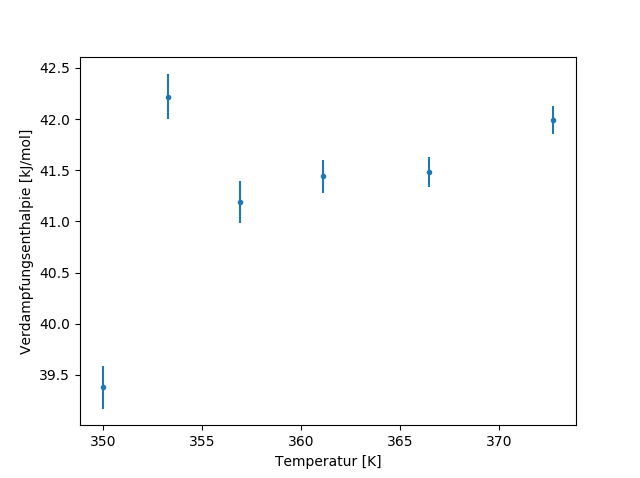
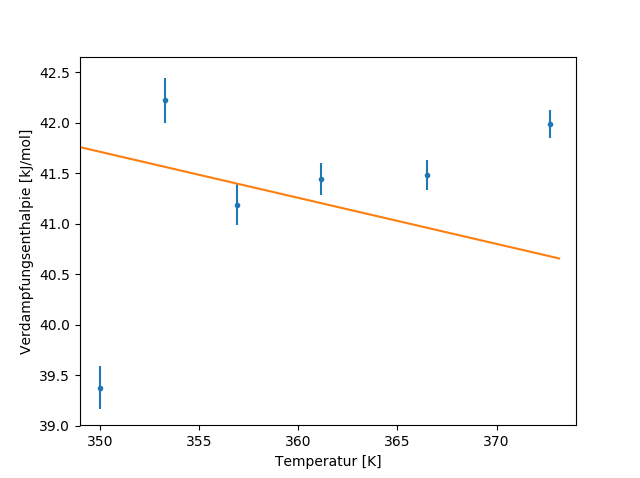
Theoriewerte

diff --git a/Thermodynamik/Python/Auswertung_HauptmessungA.py b/Thermodynamik/Python/Auswertung_HauptmessungA.py
@@ -119,8 +119,8 @@ for i in range(unterteilung.size):
     x, y, ex, ey, a, ea, b, eb, chi2, cov = gerade_an_intervall(kehrwert_temp, log_druck, sigma_t_kehr, sigma_p_log, unterteilung[i], intervall/2)
     steigung_array[i] = a
     sigma_steigung_array[i] = ea
-    if (i == 1):
-        plt.figure(4)
+    if (1 == 1):
+        plt.figure(3 + 2*i + 1)
         plt.errorbar(x, y, xerr=ex, yerr=ey, fmt=".")
         plt.xlabel( "$(1/T - 1/T_0) [1/s]$")
         plt.ylabel( "$ln(p/p_0) [hPa]$")
@@ -135,18 +135,18 @@ for i in range(unterteilung.size):
         plt.axvline(x[0])
         plt.axvline(x[-1])
         # Plot Residuen
-        plt.figure(5)
+        plt.figure(3 + 2*i + 2)
         plt.subplot(2, 1, 1)
         plt.errorbar(x, y-(a*x+b), yerr=np.sqrt(ey**2 + a**2*ex**2), fmt="k.")
         plt.xlabel("$(1/T - 1/T_0) [1/s]$")
         plt.ylabel("Residuen [hPa]")
         plt.axhline(0, linestyle="dashed")
         plt.xticks(rotation=0)
-        temp = 1/(kehrwert_temp[unterteilung[i]]+(1/temp0))
+    temp = 1/(kehrwert_temp[unterteilung[i]]+(1/temp0))
     print ("\nTemperatur = {:3.3f}\n$\Lambda$ = {:3.3f}, $\sigma_\Lambda$ = {:3.3f}\n".format(temp, -a*R/1000, ea*R/1000))
 
 
-plt.figure(6)
+plt.figure(4+2*(n-2)+2)
 # Verdampfungsenthalpie in kJ/mol
 enthalpie = -steigung_array * R /1000
 sigma_enthalpie = sigma_steigung_array * R /1000
@@ -154,6 +154,12 @@ plt.errorbar(1/(kehrwert_temp[intervall:(n-1)*intervall:intervall]+(1/temp0)), e
 plt.xlabel("Temperatur [K]")
 plt.ylabel("Verdampfungsenthalpie [kJ/mol]")
 
+
+# Literaturwerte
+literatur_T = np.array([60, 100])+273.15
+literatur_enthalpie = np.array([42.482, 40.657])
+plt.plot(literatur_T, literatur_enthalpie)
+plt.xlim([349,374])
 
 #plt.figure(4+2*n+2)
 #plt.plot(laufzeit, kehrwert_temp, linestyle="dotted")

diff --git a/Thermodynamik/Python/Auswertung_HauptmessungB.py b/Thermodynamik/Python/Auswertung_HauptmessungB.py
@@ -22,9 +22,9 @@ def gerade_an_intervall(x, y, ex, ey, wert = 0, intervall = 0):
 
 data = p.lese_lab_datei("Lab\Hauptmessung.lab")
 
-laufzeit = data[50:,1]
-druck = data[50:,4]
-temperatur = data[50:,2]
+laufzeit = data[5:,1]
+druck = data[5:,4]
+temperatur = data[5:,2]
 
 R = 8.314
                  
@@ -103,7 +103,7 @@ plt.ylabel("ln($p/p_0$)")
 
 
 # Stückweiser fit, jeweils
-n = 6
+n = 3
 n = n+2
 intervall = kehrwert_temp.size/n
 unterteilung = np.arange(n-1)[1:] * intervall
@@ -115,7 +115,7 @@ steigung_array = np.empty(n-2)
 
 for i in range(unterteilung.size):
     # Plot Daten
-    x, y, ex, ey, a, ea, b, eb, chi2, cov = gerade_an_intervall(kehrwert_temp, log_druck, sigma_t_kehr, sigma_p_log, unterteilung[i], intervall/2)
+    x, y, ex, ey, a, ea, b, eb, chi2, cov = gerade_an_intervall(kehrwert_temp, log_druck, sigma_t_kehr, sigma_p_log, unterteilung[i], intervall)
     steigung_array[i] = a
     sigma_steigung_array[i] = ea
     if (1 == 1):
@@ -153,6 +153,13 @@ sigma_enthalpie = sigma_steigung_array * R /1000
 plt.errorbar(1/(kehrwert_temp[intervall:(n-1)*intervall:intervall]+(1/temp0)), enthalpie, xerr=sigma_t, yerr=sigma_enthalpie, fmt=".")
 plt.xlabel("Temperatur [K]")
 plt.ylabel("Verdampfungsenthalpie [kJ/mol]")
+
+
+# Literaturwerte
+literatur_T = np.array([60, 100])+273.15
+literatur_enthalpie = np.array([42.482, 40.657])
+plt.plot(literatur_T, literatur_enthalpie)
+plt.xlim([339,369])
 
 
 #plt.figure(4+2*n+2)
